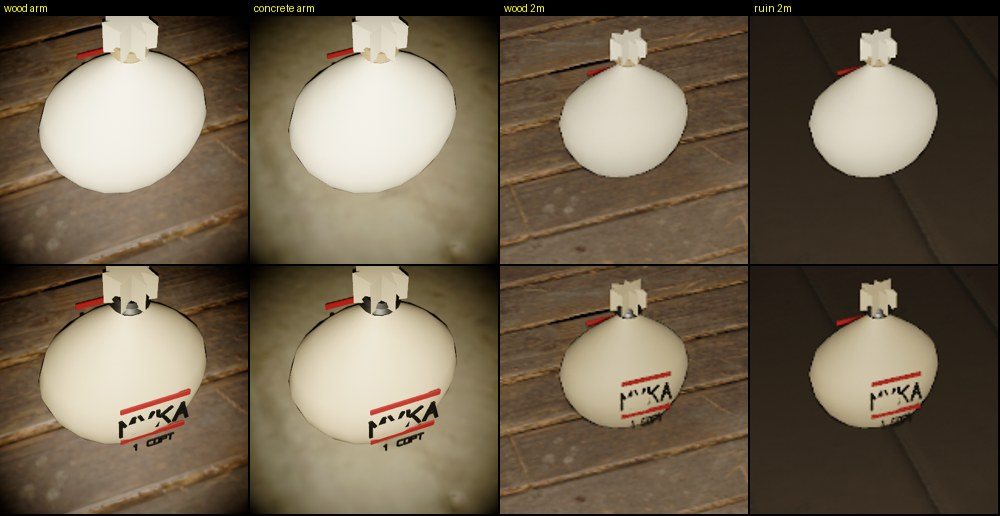
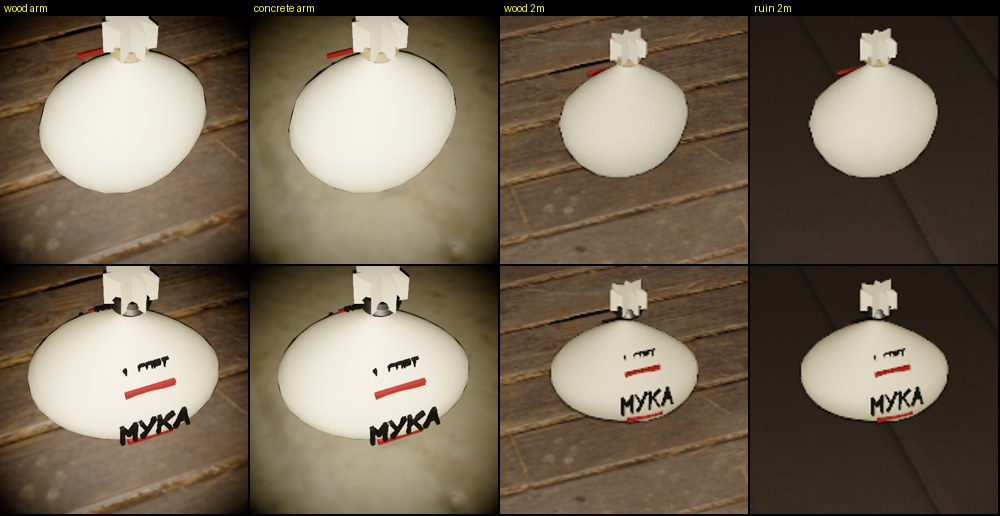
ITEM_READING: pale items keep their albedo; the flour sack's surface, measured
Claude-Session: https://claude.ai/code/session_0198AqyEV42EUGMb65r3GB9u

diff --git a/docs/craft/ITEM_READING.md b/docs/craft/ITEM_READING.md
@@ -576,19 +576,23 @@ wood and 11.6 on charred floor.
 #### Pale, not paper-white (6 November)
 
 On Visual design's settled-eye sheet the flour sack was a blank white
-blob at arm's length and from 2 m. A flat model material is now held to
-linear luminance 0.6, about sRGB 0.8 grey
-(`no_flat_model_material_is_whiter_than_pale`): Paper 0.66 is now 0.50,
-Enamel 0.74 is now 0.56. The flour sack is `Sacking` now, unbleached
-linen with the canvas scan's weave, tied off with thick dark twine. Its
-stencil and red stripes are on both broad faces: on the front only, a
-sack lying turned away had none. Measured with Visual design's
-settled-eye `--torchlit` applied locally (not merged): nothing clips
-before or after (Visual design's fix did that). The sack's detail (L*
-spread, its worst view) went from 8.9 to 13.1, and it still stands off
-every floor (delta E 36.6 → 27.2). The other pale items lose up to 3
-and all stay above 17. The weave is too fine to read from 2 m; the
-stencil, the stripes and the tie read.
+blob at arm's length and from 2 m. Measured with Visual design's
+settled-eye `--torchlit` applied locally (not merged), nothing clips,
+before or after: the wash-out was exposure, and their fix took it. So
+Paper and Enamel keep their albedo. A flat model material is held to
+enamel's (linear luminance 0.78, `no_flat_model_material_is_paper_white`),
+so nothing new comes in whiter.
+
+What the sack lacked was surface. It is `Sacking` now, unbleached linen
+with the canvas scan's weave, slumped low and spread with creases where
+it lies, tied off at the neck with thick dark twine. Its stencil and red
+stripes are on both broad faces, ray-cast onto the cloth so the slump
+doesn't swallow them: before, a sack lying turned away had none. Its
+detail (L* spread, worst view) went from 8.9 to 16.5 with 0% clipped,
+and it still stands off every floor (delta E 36.6 → 36.4). The other
+pale items (the hana letter, the rice bag, the crackers) already carry
+a seal, grains or docking, and are unchanged. The weave is too fine to
+read from 2 m; the stencil, the stripes, the tie and the slump read.
 
 ![Flour sack, before (top) and after: wood and concrete at arm's length,
 wood and charred floor from 2 m](../shots/items/torchlit_flour_before_after.jpg)
